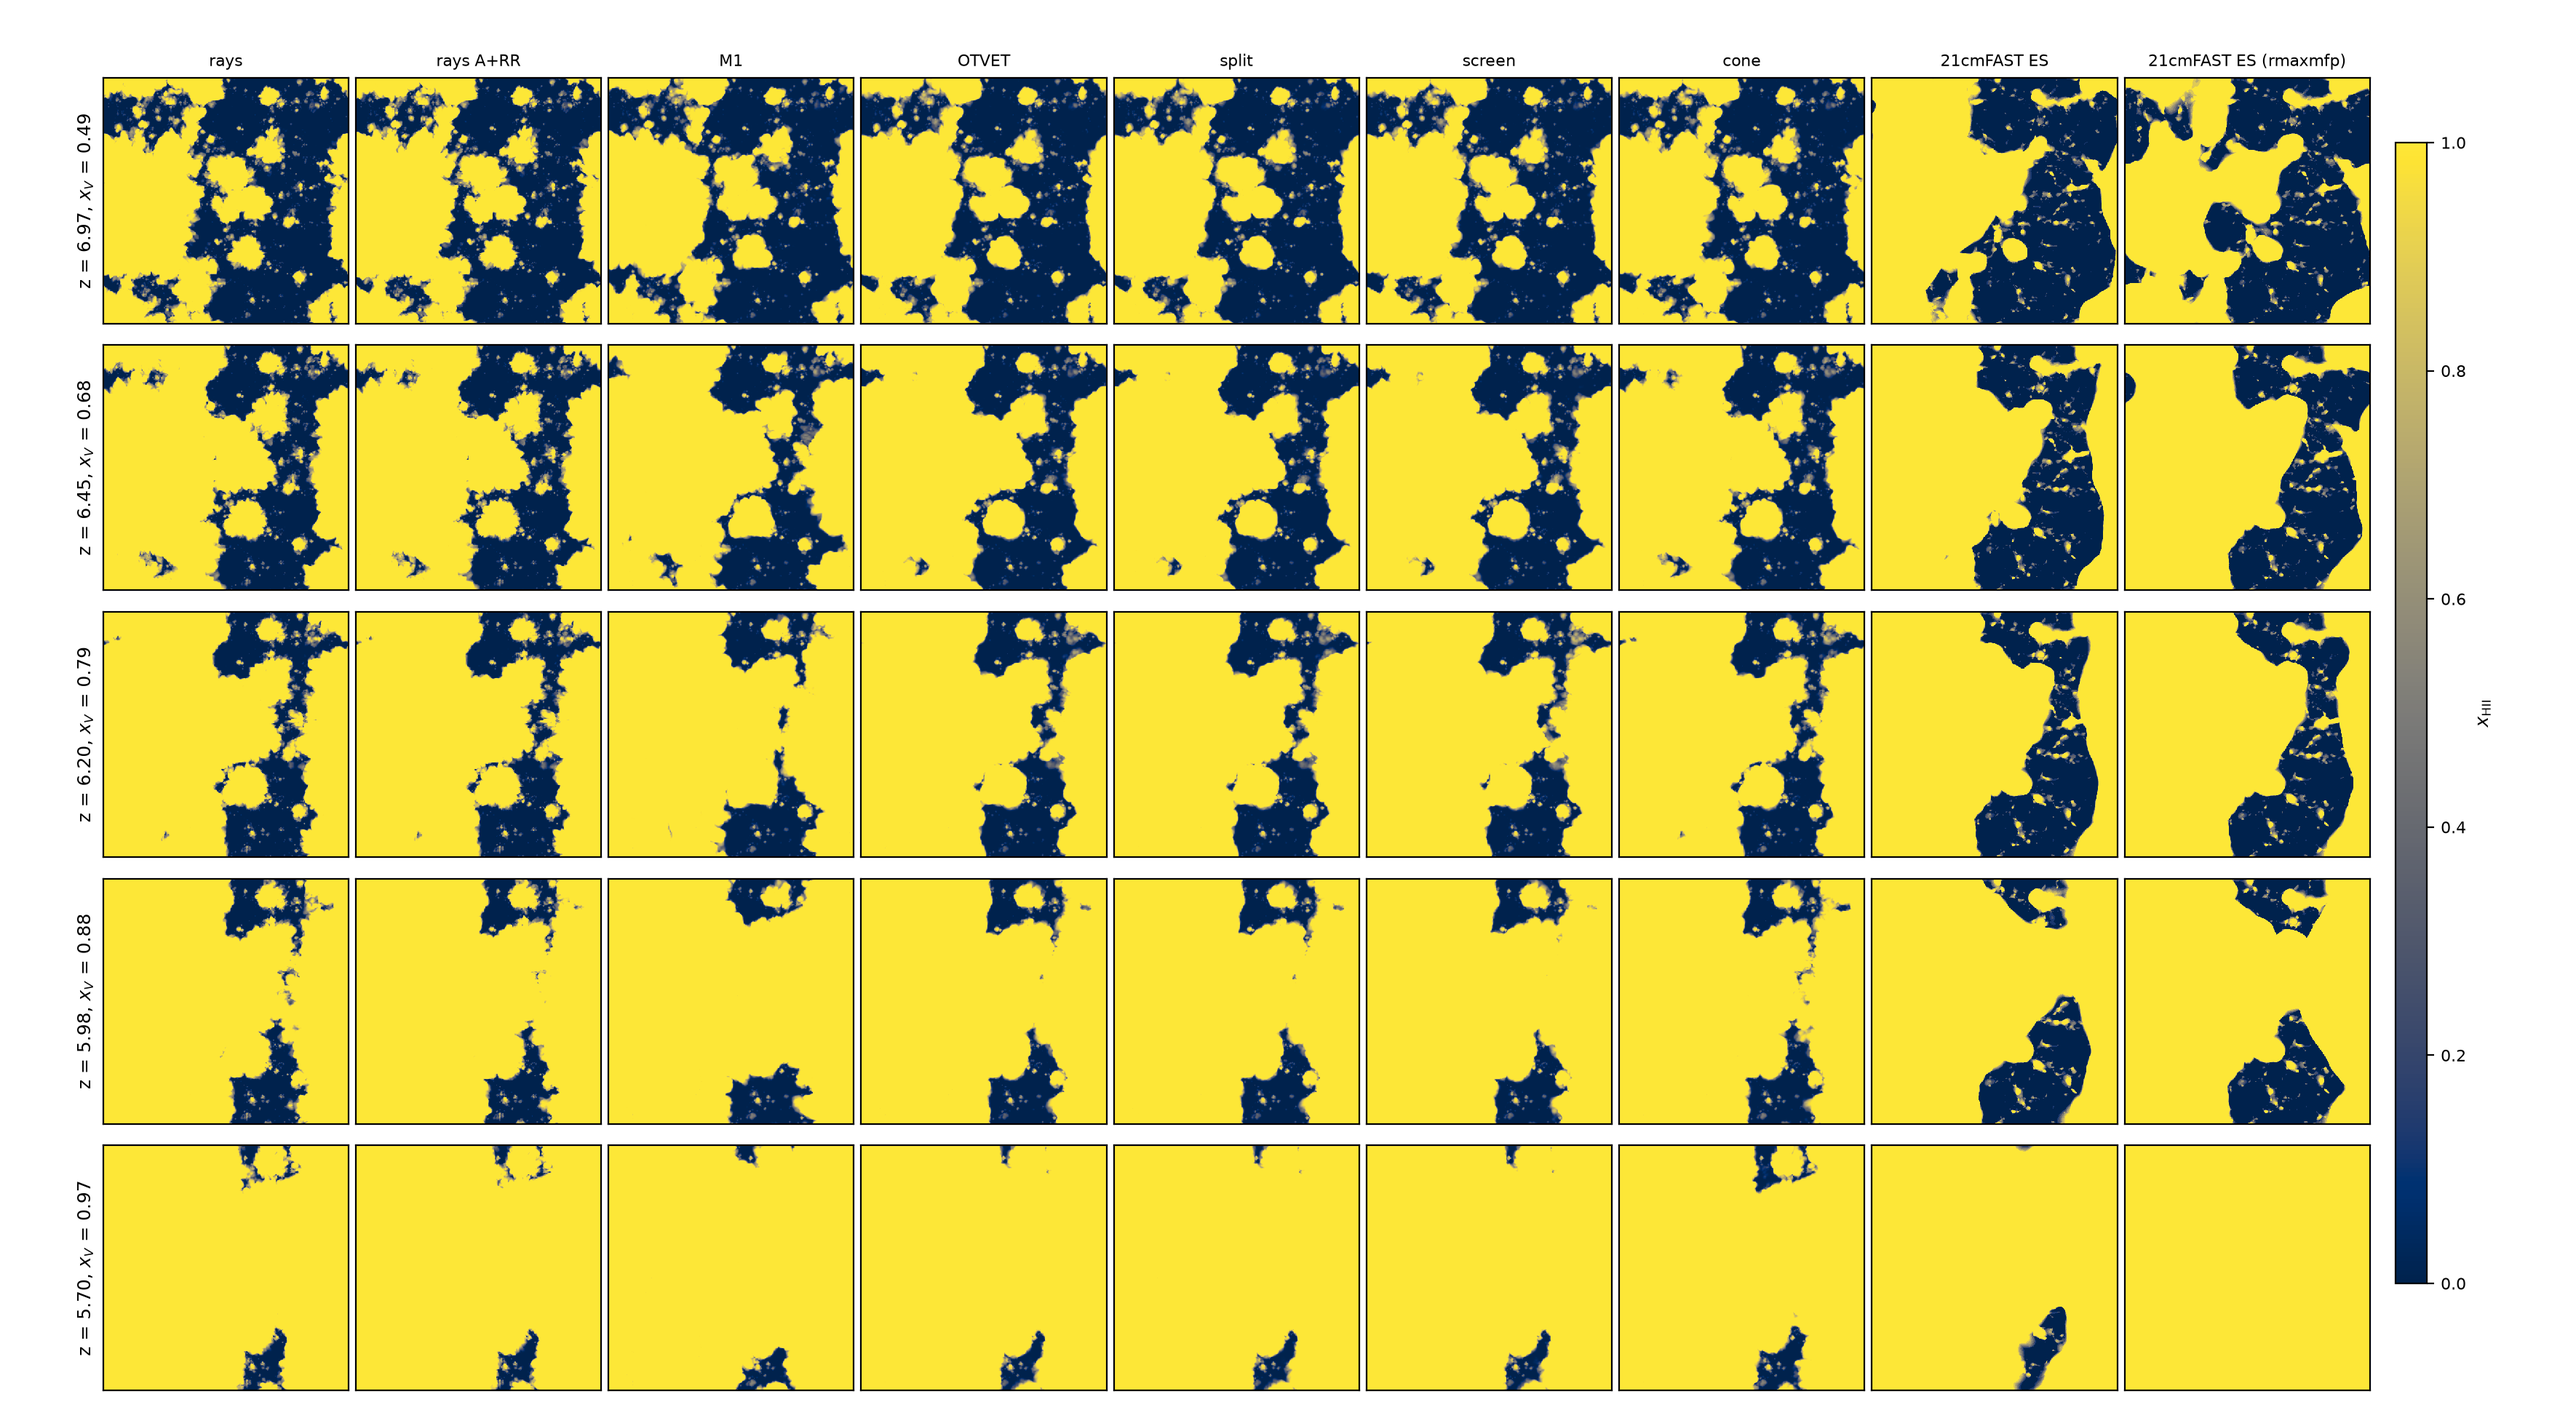
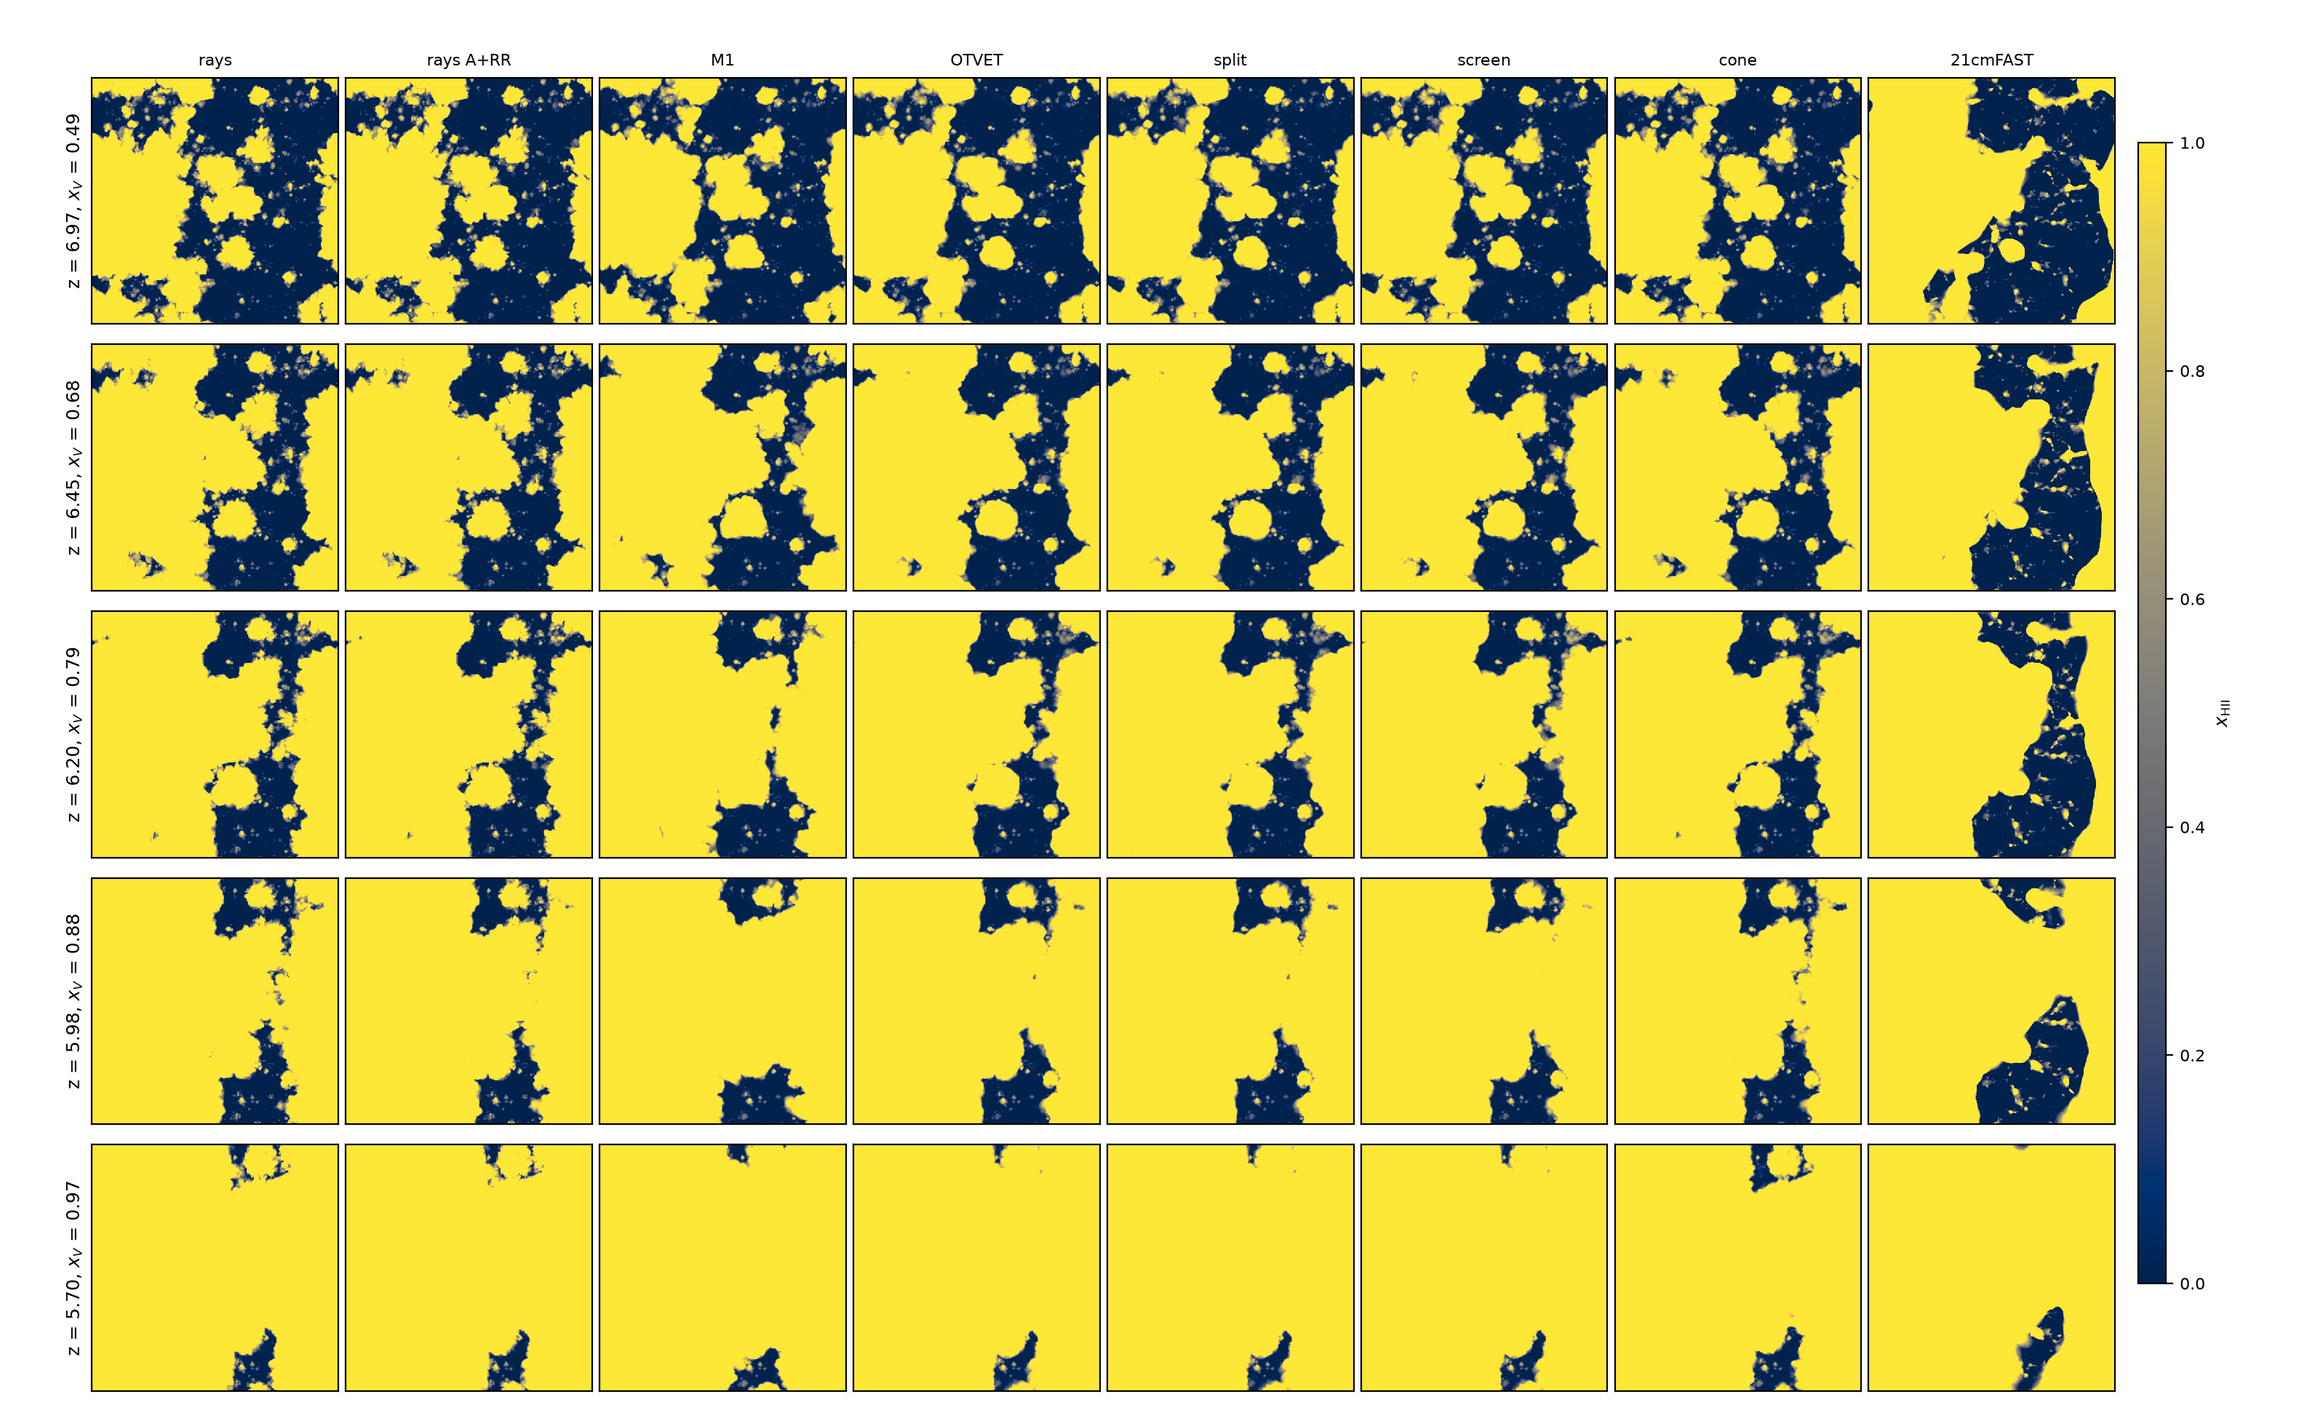
excursion_set.py figure --es: choose the 21cmFAST variants; Figure 8 with only the default R_max = 15 Mpc (the user's choice), no R_max = lambda_mfp, no B2
Claude-Session: https://claude.ai/code/session_01VFiZmUVb5p1e8vvbjwbhqk

Changed region(s): [[0.031, 0.0311, 0.9304, 0.9959], [0.8684, 0.9026, 0.8994, 0.9959]]

diff --git a/tools/analysis/excursion_set.py b/tools/analysis/excursion_set.py
@@ -52,7 +52,8 @@ DIR/es_<variant>/zeta.txt.
 variant of DIR at the reference's steps: Delta^2 of x_HII, the ratio to the
 reference, r(k) with it, the fraction of cells whose x_HII differs from the
 reference's by more than 0.5, and the x_HII maps (the slab of
-rt_suite_figures.py).
+rt_suite_figures.py). `--es rmax15` shows only that variant (labelled
+"21cmFAST"); B2 only if `standalone` is listed.
 """
 import argparse
 import glob
@@ -490,13 +491,18 @@ def cmd_figure(a):
     for r in a.runs:
         p, _, lab = r.partition(":")
         specs.append((run_dir(p), lab or os.path.basename(p.rstrip("/"))))
-    es = sorted(d for d in glob.glob(os.path.join(a.esdir, "es_*")) if not d.endswith("_standalone"))
-    es_specs = [(os.path.join(d, "run"), "21cmFAST ES" + ("" if i == 0 else f" ({os.path.basename(d)[3:]})"))
-                for i, d in enumerate(es)]
+    pick = [x for x in a.es.split(",") if x] if a.es else None     # --es: the variants to show
+    es = sorted(d for d in glob.glob(os.path.join(a.esdir, "es_*")) if not d.endswith("_standalone")
+                and (pick is None or os.path.basename(d)[3:] in pick))
+    if pick is not None and len(es) == 1 and "standalone" not in pick:
+        es_specs = [(os.path.join(es[0], "run"), "21cmFAST")]
+    else:
+        es_specs = [(os.path.join(d, "run"), "21cmFAST ES" + ("" if i == 0 else f" ({os.path.basename(d)[3:]})"))
+                    for i, d in enumerate(es)]
     # B2, the standalone 21cmFAST run: another realisation, so only its
     # Delta^2 and the ratio are shown (no r(k), no cell differences, no map)
     sa = os.path.join(a.esdir, "es_standalone")
-    if os.path.isdir(os.path.join(sa, "run")):
+    if os.path.isdir(os.path.join(sa, "run")) and (pick is None or "standalone" in pick):
         es_specs.append((os.path.join(sa, "run"), "21cmFAST own ICs (B2)"))
     all_specs = specs + es_specs
     nrun, nes = len(specs), len(es_specs)
@@ -799,6 +805,8 @@ def main():
     f.add_argument("--nbins", type=int, default=24)
     f.add_argument("--slab", type=int, default=8)
     f.add_argument("--dpi", type=int, default=200)
+    f.add_argument("--es", default="", help="comma list of the variants to show (es_<name>: rmax15, rmaxmfp; "
+                   "standalone for B2); default all")
     a = ap.parse_args()
     if a.cmd == "run":
         cmd_run(a)

diff --git a/docs/taueff_21cmfast.md b/docs/taueff_21cmfast.md
@@ -459,18 +459,21 @@ ionised volume; with the growing λ_mfp it falls from 16.7 to 10.1.
 
 ![Figure 8, spectra](figures/taueff_21cmfast_fig8_pk.png)
 
-*Δ² of x_HII (the field itself), the ratio to the rays and r(k) with the
-rays, at the five snapshots, every run and the excursion set (violet; dotted
-with R_max = λ_mfp). Top right: the fraction of cells whose x_HII differs
-from the rays' by more than 0.5.*
+*Δ² of x_HII (the field itself; x_HI's is the same), the ratio to the rays
+and r(k) with the rays, at the five snapshots, every run and 21cmFAST's
+criterion with the default R_max = 15 Mpc (violet). Top right: the
+fraction of cells whose x_HII differs from the rays' by more than 0.5. The
+user (2026-11-06) asked for only the default 21cmFAST in the figures: the
+R_max = λ_mfp variant and B2 (own ICs) are left out
+(`excursion_set.py figure --es rmax15`) and stay in the tables.*
 
 ![Figure 8, maps](figures/taueff_21cmfast_fig8_maps.png)
 
 *x_HII in the 8-cell slab through the box centre (the slab of Figure 2),
-rows the snapshots, columns the runs and the two excursion sets.*
+rows the snapshots, columns the runs and 21cmFAST (R_max = 15 Mpc).*
 
 The fraction of cells with |x_HII − x_HII,rays| > 0.5
-(`es/fig/es_compare.txt`; the case A + RR rays' snapshots are at z = 6.92 and
+(`es/fig/es_compare.txt`, all variants; the case A + RR rays' snapshots are at z = 6.92 and
 5.95 for the first and fourth rows, which accounts for most of their 2 %):
 
 | z | x_V | A + RR | M1 | OTVET | split | screen | cone | ES (15 Mpc) | ES (λ_mfp) |
